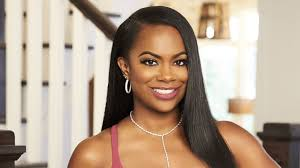
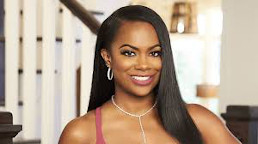
cropped images to look more polished

diff --git a/src/components/Wrapper/wrapper.css b/src/components/Wrapper/wrapper.css
@@ -1,0 +1,3 @@
+/* .wrapper {
[1 lines of base64/hex data omitted]
+} */
